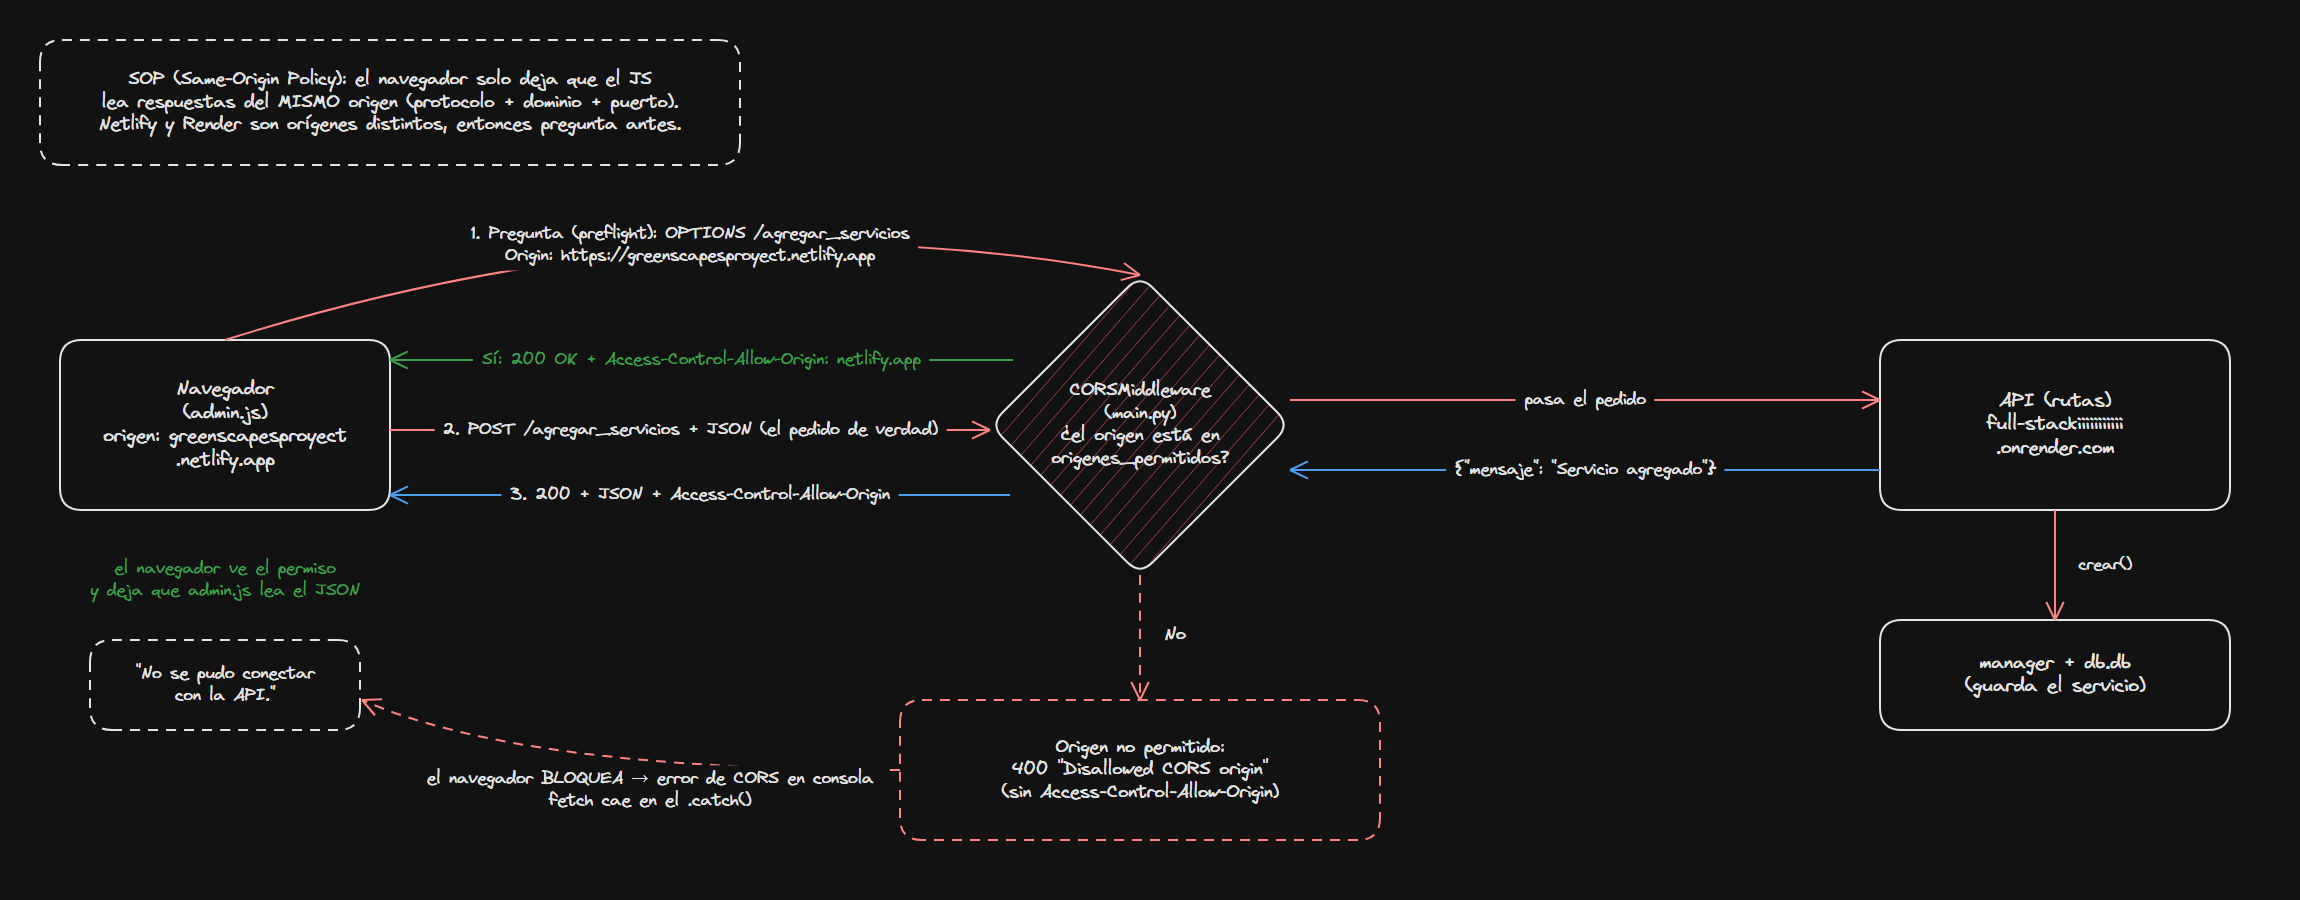
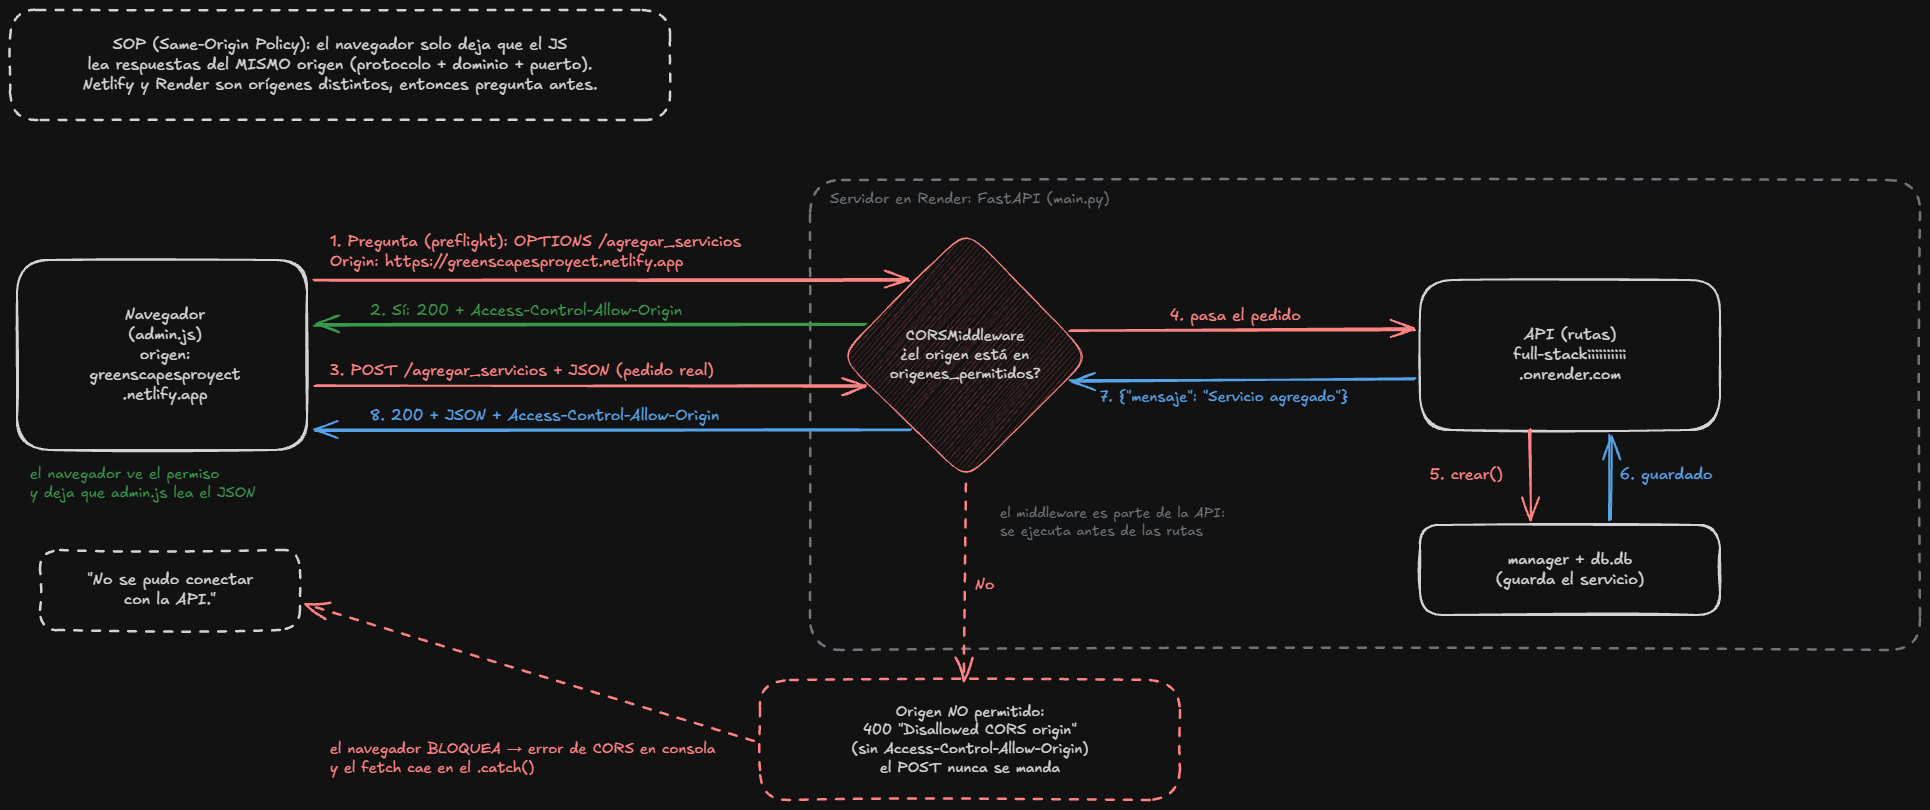
tengo sueño

diff --git a/backend/main.py b/backend/main.py
@@ -17,8 +17,8 @@ origenes_permitidos = [
 app.add_middleware(
     CORSMiddleware,
     allow_origins=origenes_permitidos,
-    allow_methods=["GET", "POST", "PUT", "DELETE"],
-    allow_headers=["Content-Type"],
+    allow_methods=["*"],
+    allow_headers=["*"],
 )
 
 

diff --git a/README.md b/README.md
@@ -4,7 +4,7 @@
 ### Curso: 6to 5ta
 
 **Página online:** https://greenscapesproyect.netlify.app
-**API online:** https://full-stackiiiiiiiiiii.onrender.com/docs
+**API online:** https://full-stackiiiiiiiiii.onrender.com/docs
 
 ---
 
@@ -33,7 +33,7 @@
 ## Estructura del proyecto
 
 ```
-full-stackiiiiiiiiiii/
+full-stackiiiiiiiiii/
 ├── README.md
 ├── backend/
 │   ├── main.py                  → app FastAPI, rutas y CORS
@@ -63,8 +63,8 @@ Se necesita **Python 3.10 o más nuevo** y **Git**.
 **1. Clonar el repositorio**
 
 ```bash
-git clone https://github.com/Enzis123/full-stackiiiiiiiiiii.git
-cd full-stackiiiiiiiiiii
+git clone https://github.com/Enzis123/full-stackiiiiiiiiii.git
+cd full-stackiiiiiiiiii
 ```
 
 **2. Crear el entorno virtual e instalar las dependencias**
@@ -86,12 +86,7 @@ La API queda en `http://127.0.0.1:8000`.
 
 **4. Abrir el frontend**
 
-Con la API corriendo, abrir `greenscapes/index.html` con **Live Server** de VS Code (puerto 5500), o desde otra terminal:
-
-```bash
-cd greenscapes
-python -m http.server 5500
-```
+Con la API corriendo, abrir `greenscapes/index.html` con **Live Server**
 
 y entrar a `http://127.0.0.1:5500`. También funciona abriendo `index.html` con doble clic.
 
@@ -100,7 +95,7 @@ y entrar a `http://127.0.0.1:5500`. También funciona abriendo `index.html` con 
 FastAPI genera sola una página donde se pueden ver y probar todos los endpoints:
 
 * Local: http://127.0.0.1:8000/docs
-* Online: https://full-stackiiiiiiiiiii.onrender.com/docs
+* Online: https://full-stackiiiiiiiiii.onrender.com/docs
 
 > La API online está en el plan gratis de Render: si nadie la usa un rato "se duerme" y la primera petición tarda unos segundos. Además, los cambios que se hagan en la base online se pierden cuando Render reinicia el servidor.
 
@@ -240,7 +235,7 @@ Los **códigos de estado** son números que manda el servidor para decir cómo s
 
 ![CORS](docs/graficos/cors.png)
 
-El **SOP (Same-Origin Policy)** es una regla de seguridad del navegador: una página solo puede leer respuestas de su **mismo origen**. El origen es la combinación de protocolo + dominio + puerto. Por ejemplo `https://greenscapesproyect.netlify.app` y `https://full-stackiiiiiiiiiii.onrender.com` son orígenes distintos, y en local también lo son `http://127.0.0.1:5500` (Live Server) y `http://127.0.0.1:8000` (la API), porque cambia el puerto.
+El **SOP (Same-Origin Policy)** es una regla de seguridad del navegador: una página solo puede leer respuestas de su **mismo origen**. El origen es la combinación de protocolo + dominio + puerto. Por ejemplo `https://greenscapesproyect.netlify.app` y `https://full-stackiiiiiiiiii.onrender.com` son orígenes distintos, y en local también lo son `http://127.0.0.1:5500` (Live Server) y `http://127.0.0.1:8000` (la API), porque cambia el puerto.
 
 El navegador bloquea esto para que una página cualquiera no pueda usar tu sesión para leer datos de otro sitio sin permiso.
 
@@ -406,7 +401,7 @@ La ventaja es que, si mañana tuviera 3 servidores en vez de 1, cualquier servid
 * Separé el backend en carpetas (`models`, `managers`, `database`) para que cada archivo tenga una sola responsabilidad (ver Pregunta 5).
 * La ruta a `db.db` está armada con `os.path.dirname(__file__)`, así la API siempre usa la misma base sin importar desde qué carpeta se ejecute.
 * `init_db()` crea la tabla `servicios` si no existe, así la API funciona aunque la base esté vacía.
-* En CORS solo permito los orígenes que uso (Netlify y Live Server) y los métodos `GET`, `POST`, `PUT` y `DELETE`, en vez de permitir todo con `"*"`.
+* En CORS solo permito los orígenes que uso (la página de Netlify, Live Server y `"null"` para cuando se abre con doble clic), en vez de permitir cualquier origen con `"*"`.
 
 ---
 
